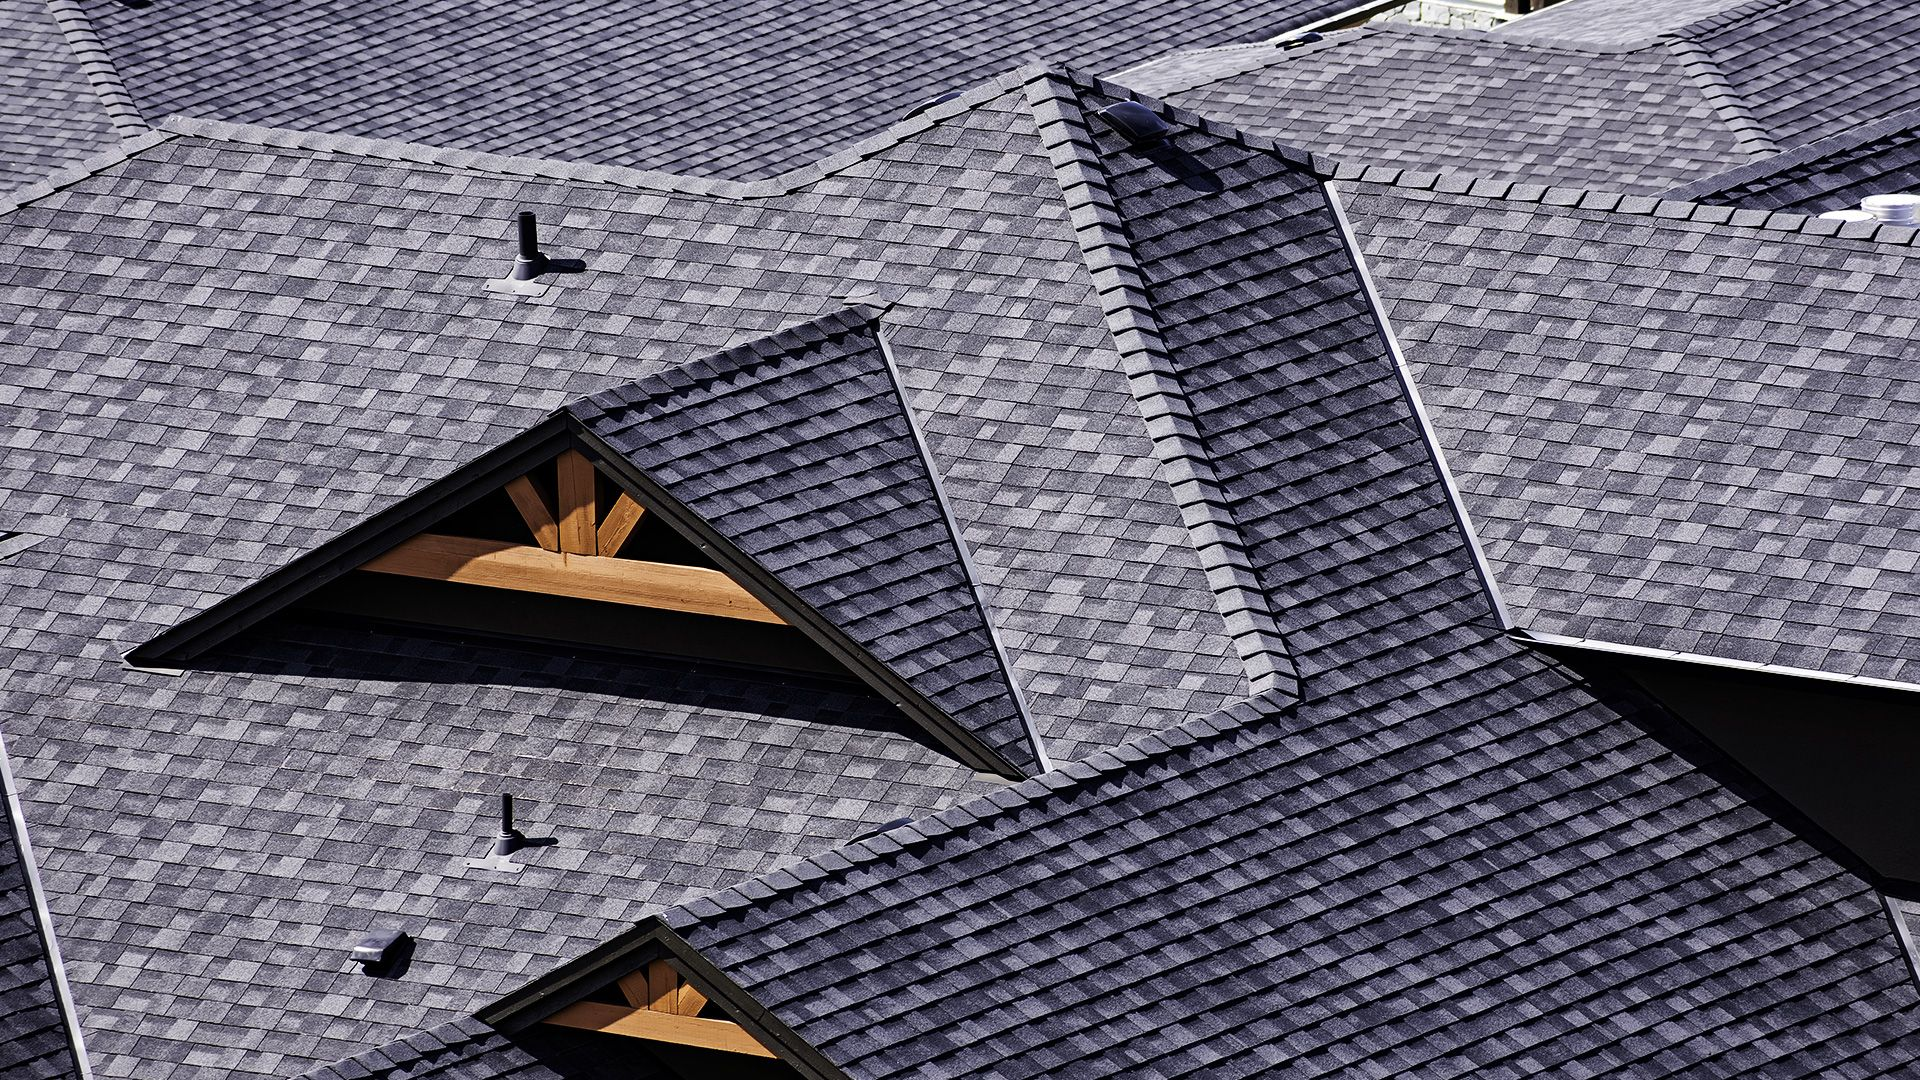
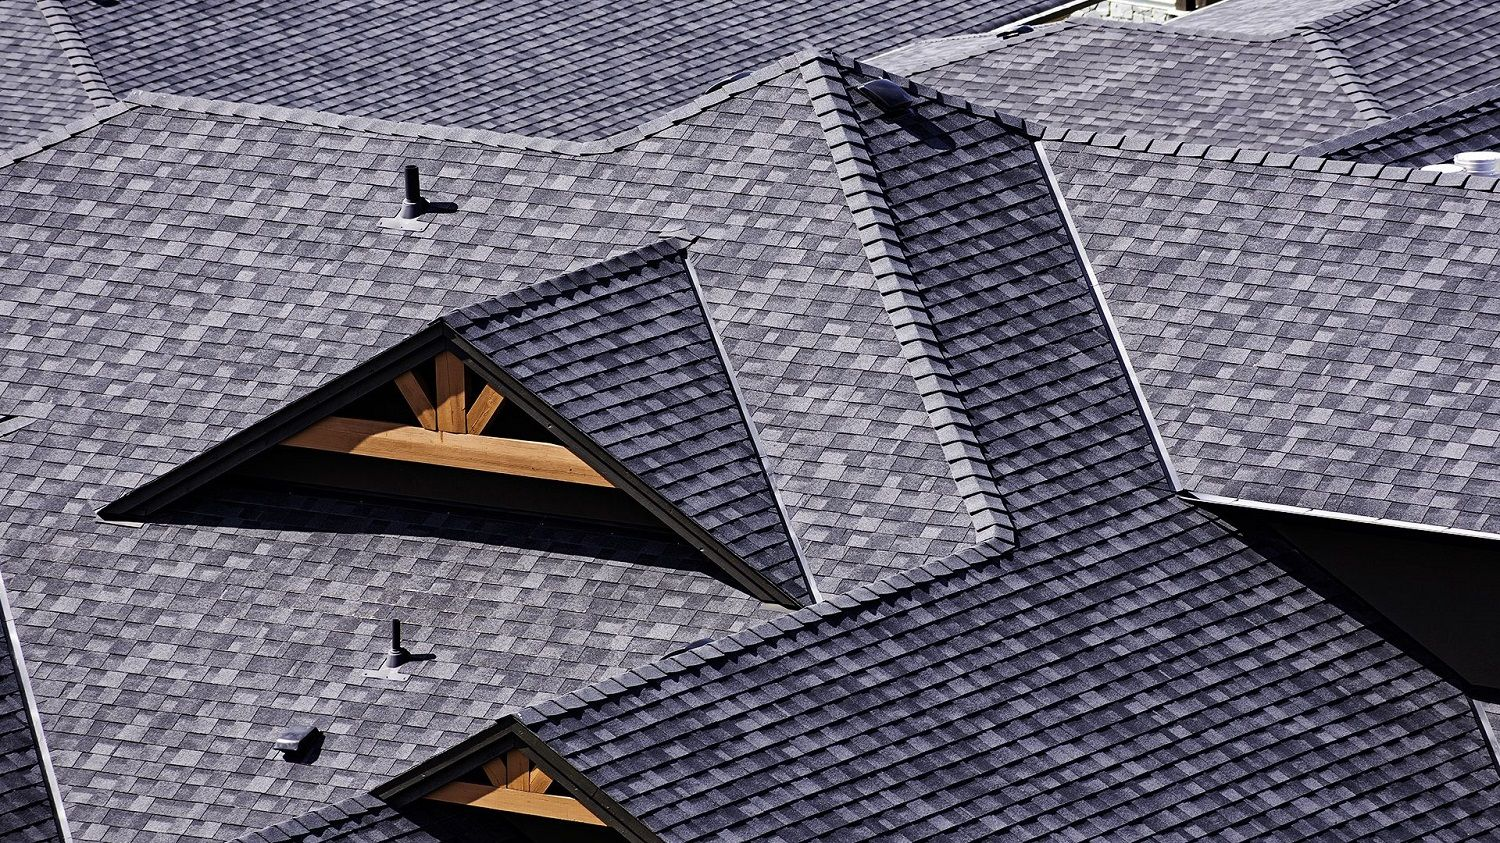
- chnaged 10 years o 30 - added robots.txt - addd sitemap

diff --git a/html/services.html b/html/services.html
@@ -262,7 +262,7 @@
                             </g>
                         </g></g> </svg>
                         <div class="reason-content">
-                            <h3>10+ Years Experience</h3>
+                            <h3>30+ Years Experience</h3>
                             <p>Let our years of expertise in our craft work for you.  There's no problem we havn't overcome.</p>
                         </div>
                     </div>

diff --git a/css/portfolio.css b/css/portfolio.css
@@ -7,7 +7,7 @@
 
 #hero {
     height: 180px;
-    background: url("/images/ABP-Construction-llc-euless-tx-eric-chatelain-roofing-construction-image-4.jpg");
+    background: url("/images/ABP-Construction-llc-euless-tx-eric-chatelain-roofing-construction-image-4-crop.jpg");
     background-position: top;
     background-repeat: no-repeat;
     background-size: cover;
